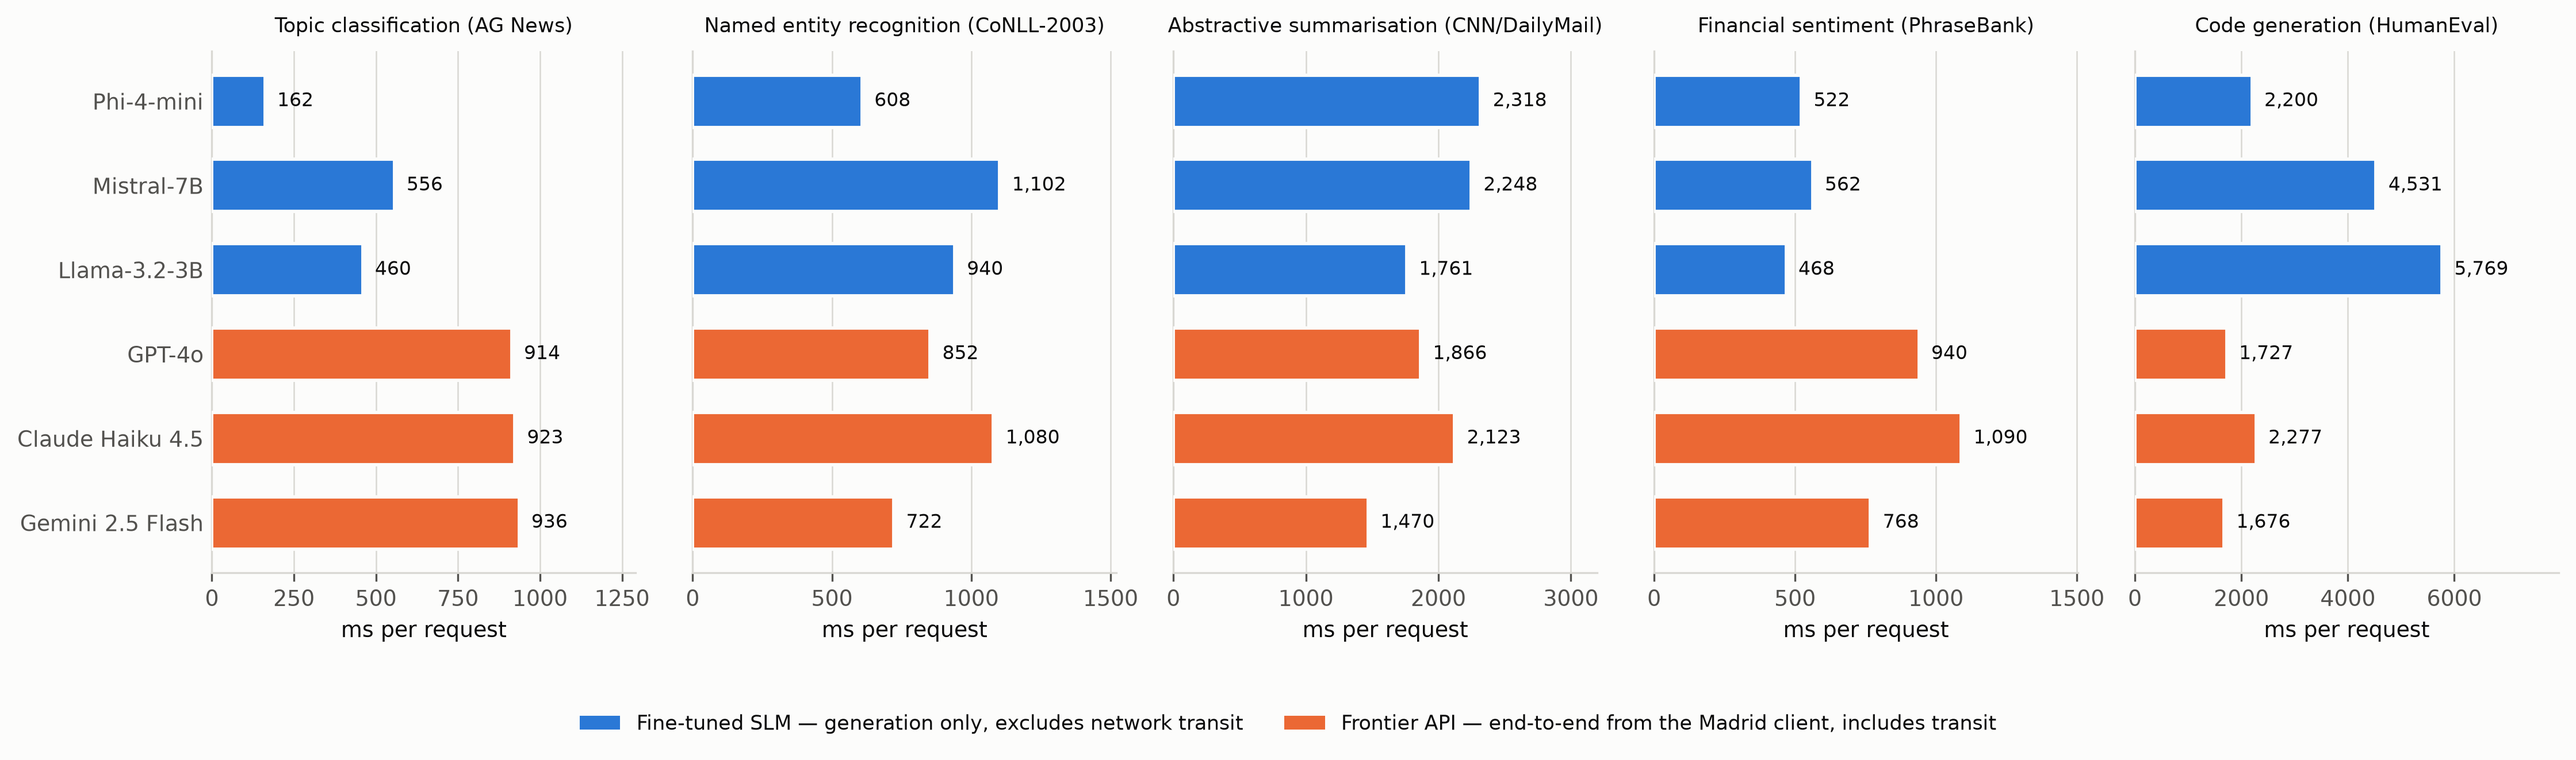
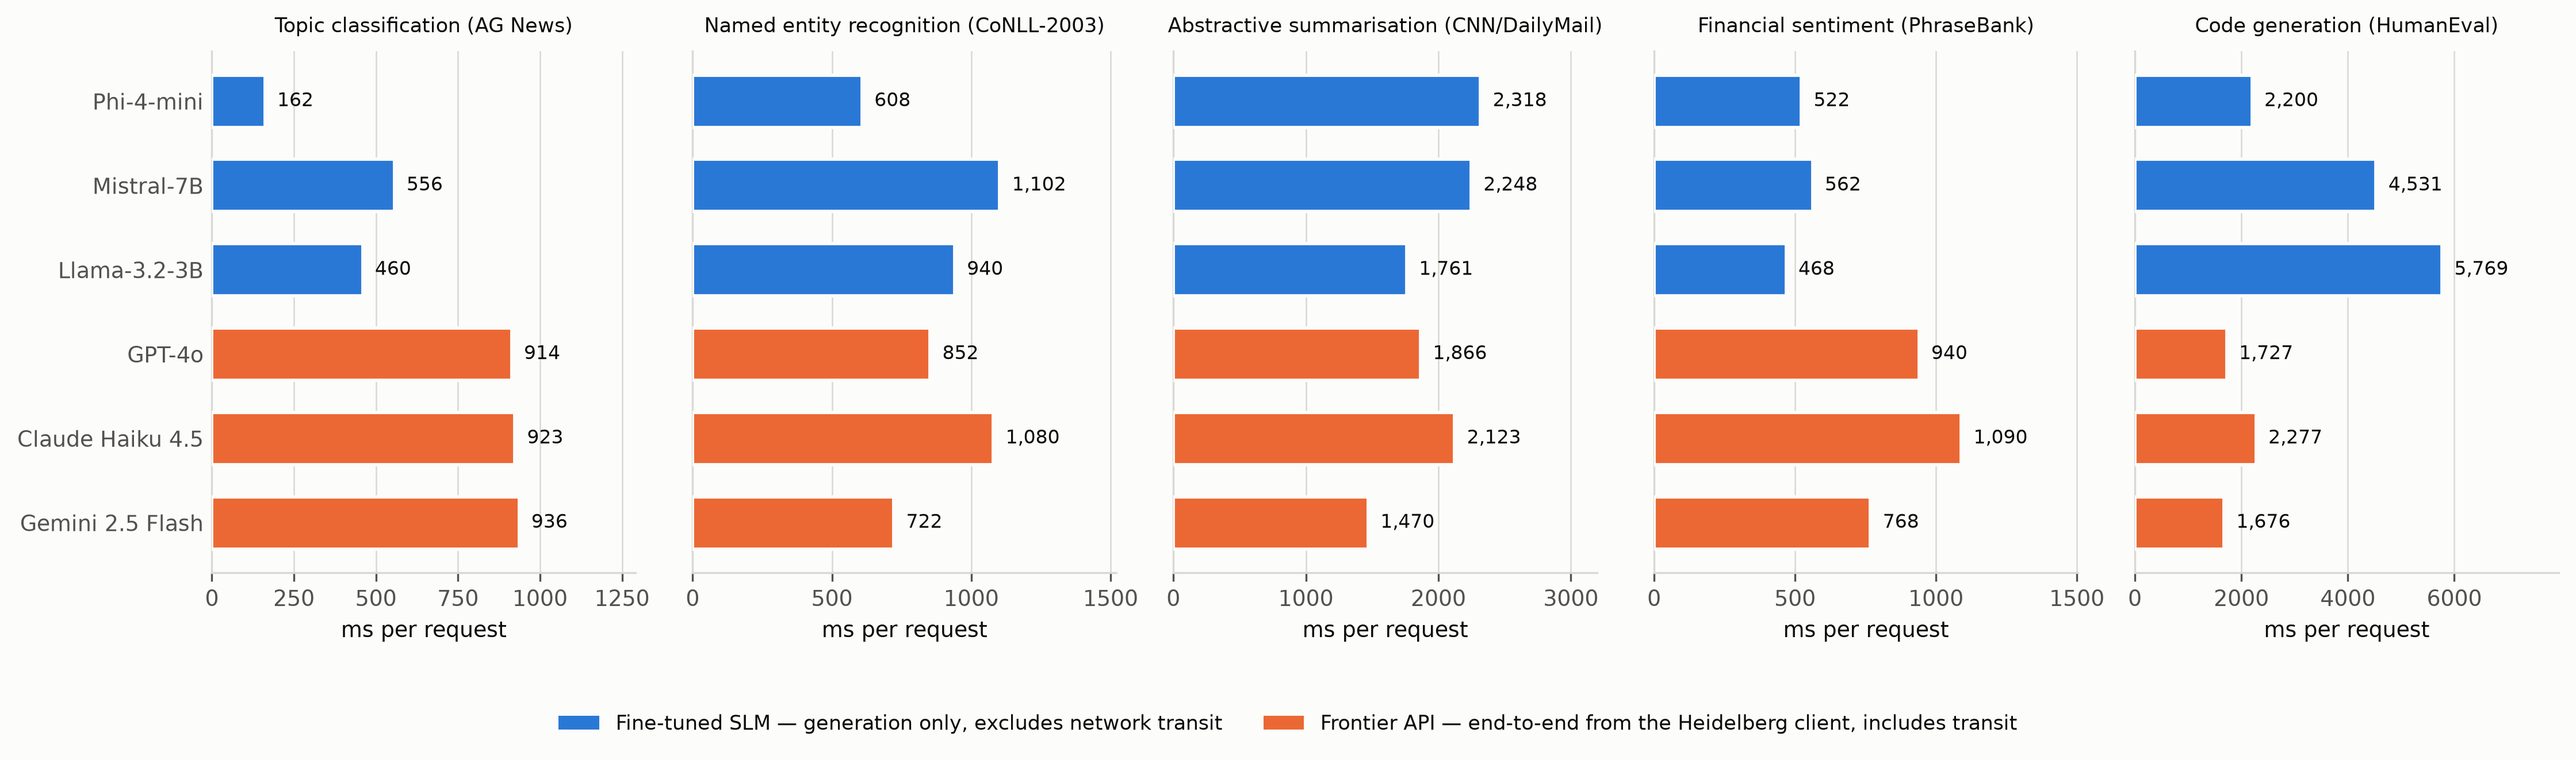
Merge the Heidelberg/free-GPU correction into main (#30)
* docs: record that the H200 was provided free and its rate is imputed

The accelerator every fine-tuning and self-hosted inference run used was
provided at no charge, so no accelerator cost was incurred and the whole
self-hosted cost arm rests on an imputed commercial rate. The comment on
GPU_COST_PER_HOUR described the instance as rented, which was inaccurate.

No number changes: the rate stays USD 3.99/GPU-hour, chosen because throughput
was measured on an H200 and pricing that hardware at a cheaper card's rate
would understate c_slm.

* fix: the accelerator is in Heidelberg, not Madrid

Madrid was an internal code name for the machine; the H200 belongs to the
university and sits in Heidelberg, Germany. Figure 4.3's legend named the wrong
client location, so its label and the figure are regenerated (the other five
figures regenerate pixel-identically and are left untouched).

---------

Changed region(s): [[0.2172, 0.9297, 0.7758, 0.9607]]

diff --git a/results/benchmark_matrix.py b/results/benchmark_matrix.py
@@ -16,14 +16,15 @@ from typing import List
 sys.path.append(os.path.join(os.path.dirname(os.path.dirname(os.path.abspath(__file__))), "src"))
 from evaluation.metrics import LLM_API_COSTS, get_privacy_risk, calculate_roi_breakeven
 
-# Throughput was measured on the rented H200 instance, so the imputed rate
-# must be an H200-class commercial rate — pricing the measured hardware at a
-# cheaper card's rate would systematically understate c_slm (fast GPU + cheap
-# price). $3.99/hr is a single-H200 on-demand rate (JarvisLabs, verified
-# Aug 2026); the specialised-cloud band is roughly $3.68 (Vast.ai) to $4.50
-# (Nebius), with hyperscalers (AWS/Azure/OCI) near $10/GPU-hr. All SLM cost
-# and ROI numbers scale linearly in this constant, so re-pricing at any
-# other rate is a one-line substitution.
+# The H200 this study ran on was provided at no charge, so no accelerator cost
+# was actually incurred and every self-hosted figure rests on an imputed rate.
+# That rate must be H200-class, because throughput was measured on an H200 —
+# pricing the measured hardware at a cheaper card's rate would systematically
+# understate c_slm (fast GPU + cheap price). $3.99/hr is a single-H200
+# on-demand rate (JarvisLabs, verified Aug 2026); the specialised-cloud band is
+# roughly $3.68 (Vast.ai) to $4.50 (Nebius), with hyperscalers (AWS/Azure/OCI)
+# near $10/GPU-hr. All SLM cost and ROI numbers scale linearly in this
+# constant, so re-pricing at any other rate is a one-line substitution.
 GPU_COST_PER_HOUR = 3.99
 # The evaluation runs stored in mlflow logged cost_per_1m_tokens at the rate
 # in force at eval time ($2.50/hr). c_slm is linear in the rate, so stored

diff --git a/results/make_figures.py b/results/make_figures.py
@@ -216,7 +216,7 @@ def fig_latency(df):
         ax.grid(axis="y", visible=False)
     fig.legend(handles=[
         Patch(facecolor=SLM_C, label="Fine-tuned SLM — generation only, excludes network transit"),
-        Patch(facecolor=API_C, label="Frontier API — end-to-end from the Madrid client, includes transit"),
+        Patch(facecolor=API_C, label="Frontier API — end-to-end from the Heidelberg client, includes transit"),
     ], loc="lower center", ncol=2, frameon=False, bbox_to_anchor=(0.5, -0.13), fontsize=8.5)
     fig.tight_layout()
     save(fig, "fig4_3_latency")

diff --git a/docs/thesis_artefact_gaps.md b/docs/thesis_artefact_gaps.md
@@ -55,3 +55,16 @@ imputes USD 3.99/hr for the H200 the throughput was measured on (§3.4.3) — bu
 the field contradicts the thesis at a glance. Appendix B of the thesis carries a
 note explaining this. Leave the field as it was at run time so the configs
 remain the ones the runs were produced under.
+
+## Hardware note
+
+Every fine-tuning and self-hosted inference run was executed on a single H200
+(141 GB) belonging to the university, in Heidelberg, Germany, and made available
+to the author at no charge.
+No accelerator cost was therefore incurred, and every self-hosted cost, ROI and
+breakeven figure in the thesis rests on the imputed commercial rate of USD 3.99
+per GPU-hour rather than on an amount paid. The thesis states this in §3.4.3,
+in footnote 3 to §3.5.3 and in the Appendix H verification log; the constant
+carries the same note at `results/benchmark_matrix.py`, `GPU_COST_PER_HOUR`.
+Earlier drafts described the accelerator as rented, which was inaccurate; the
+rate and every number derived from it are unchanged.
